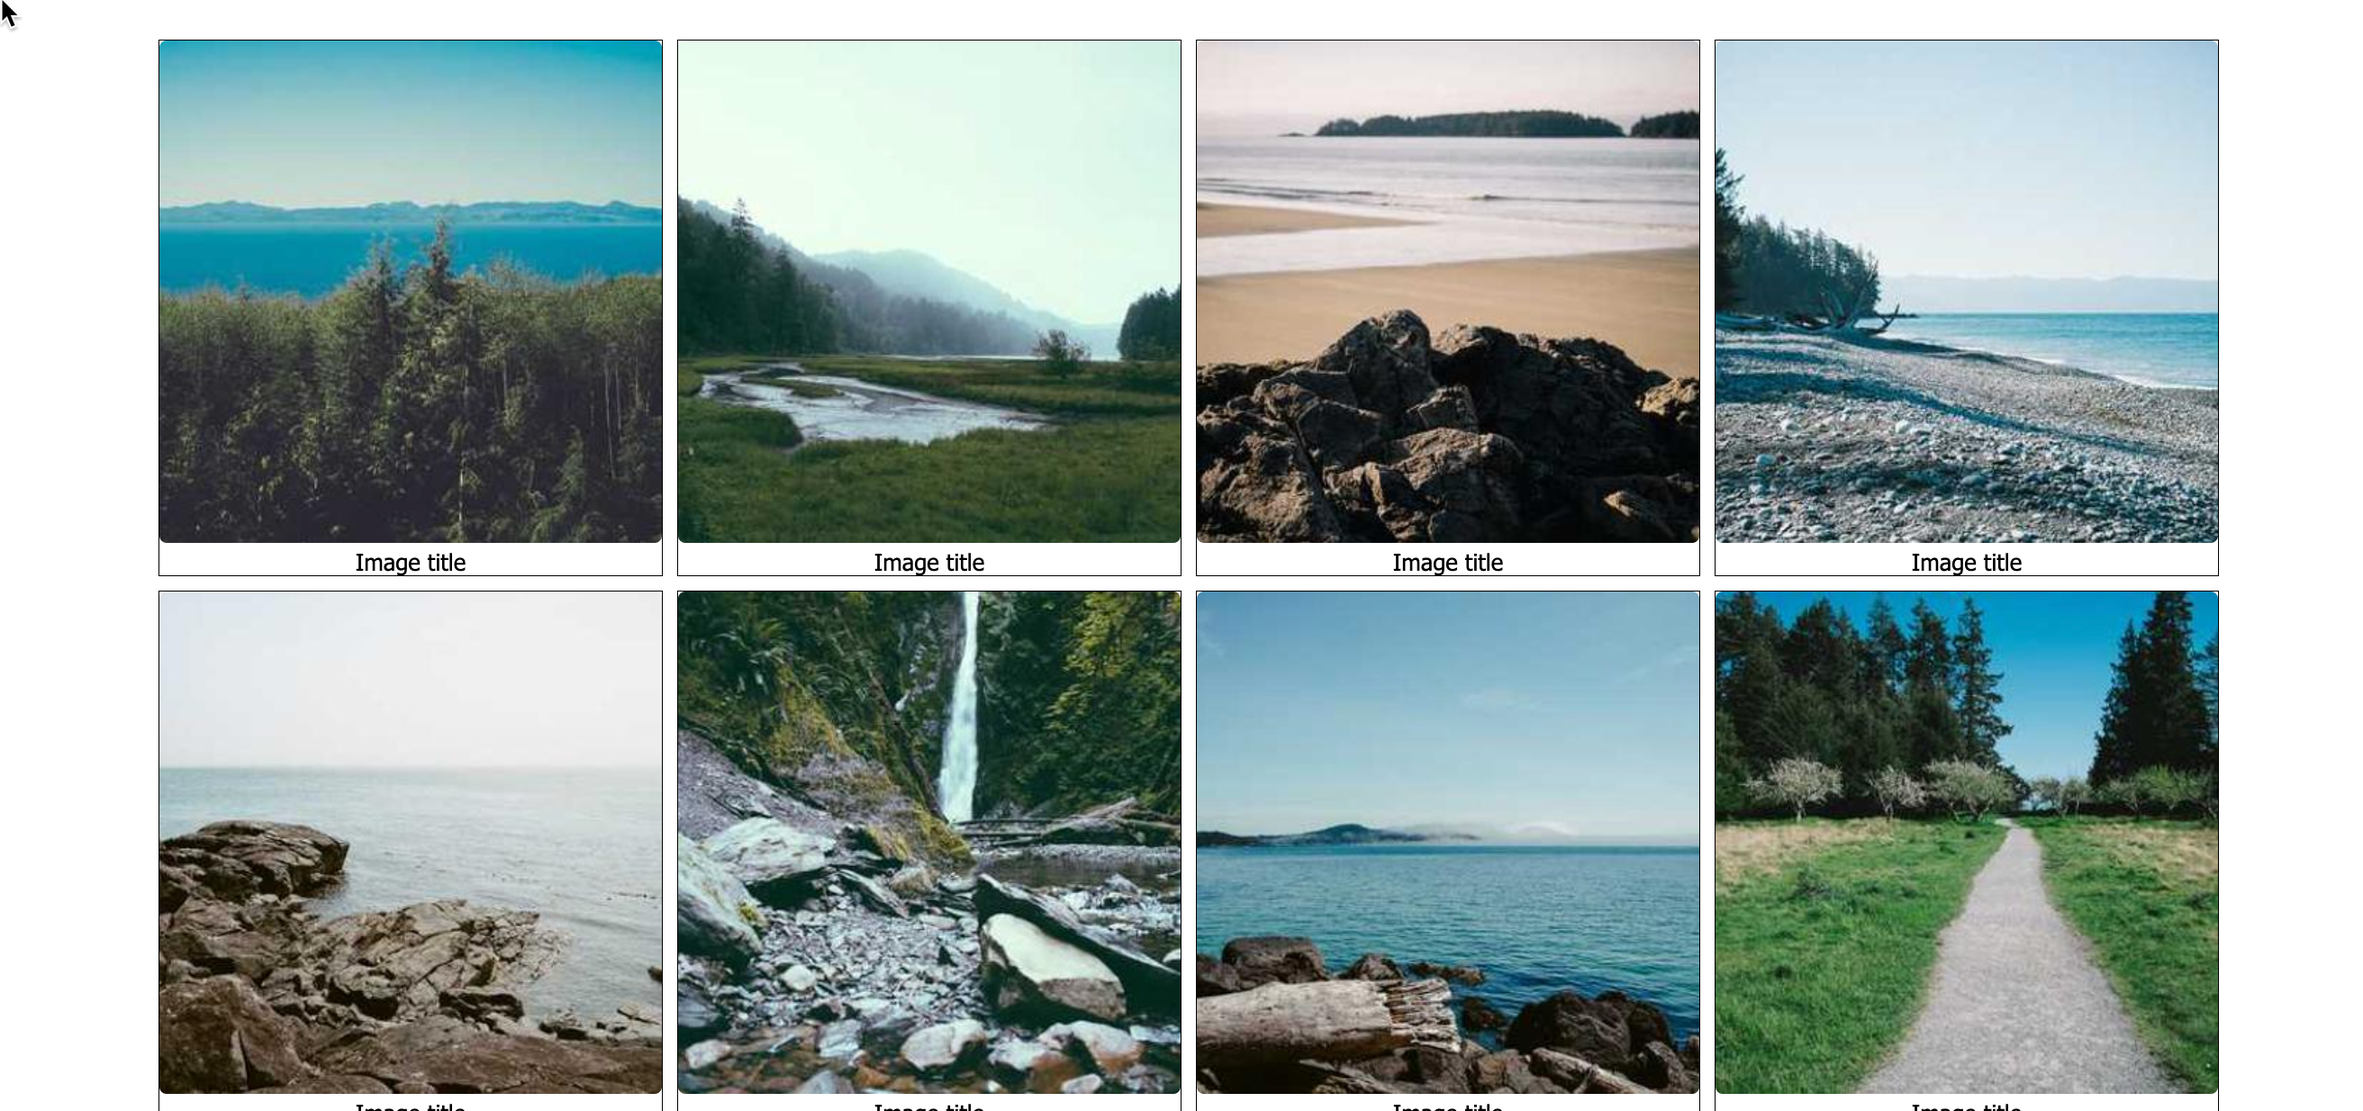
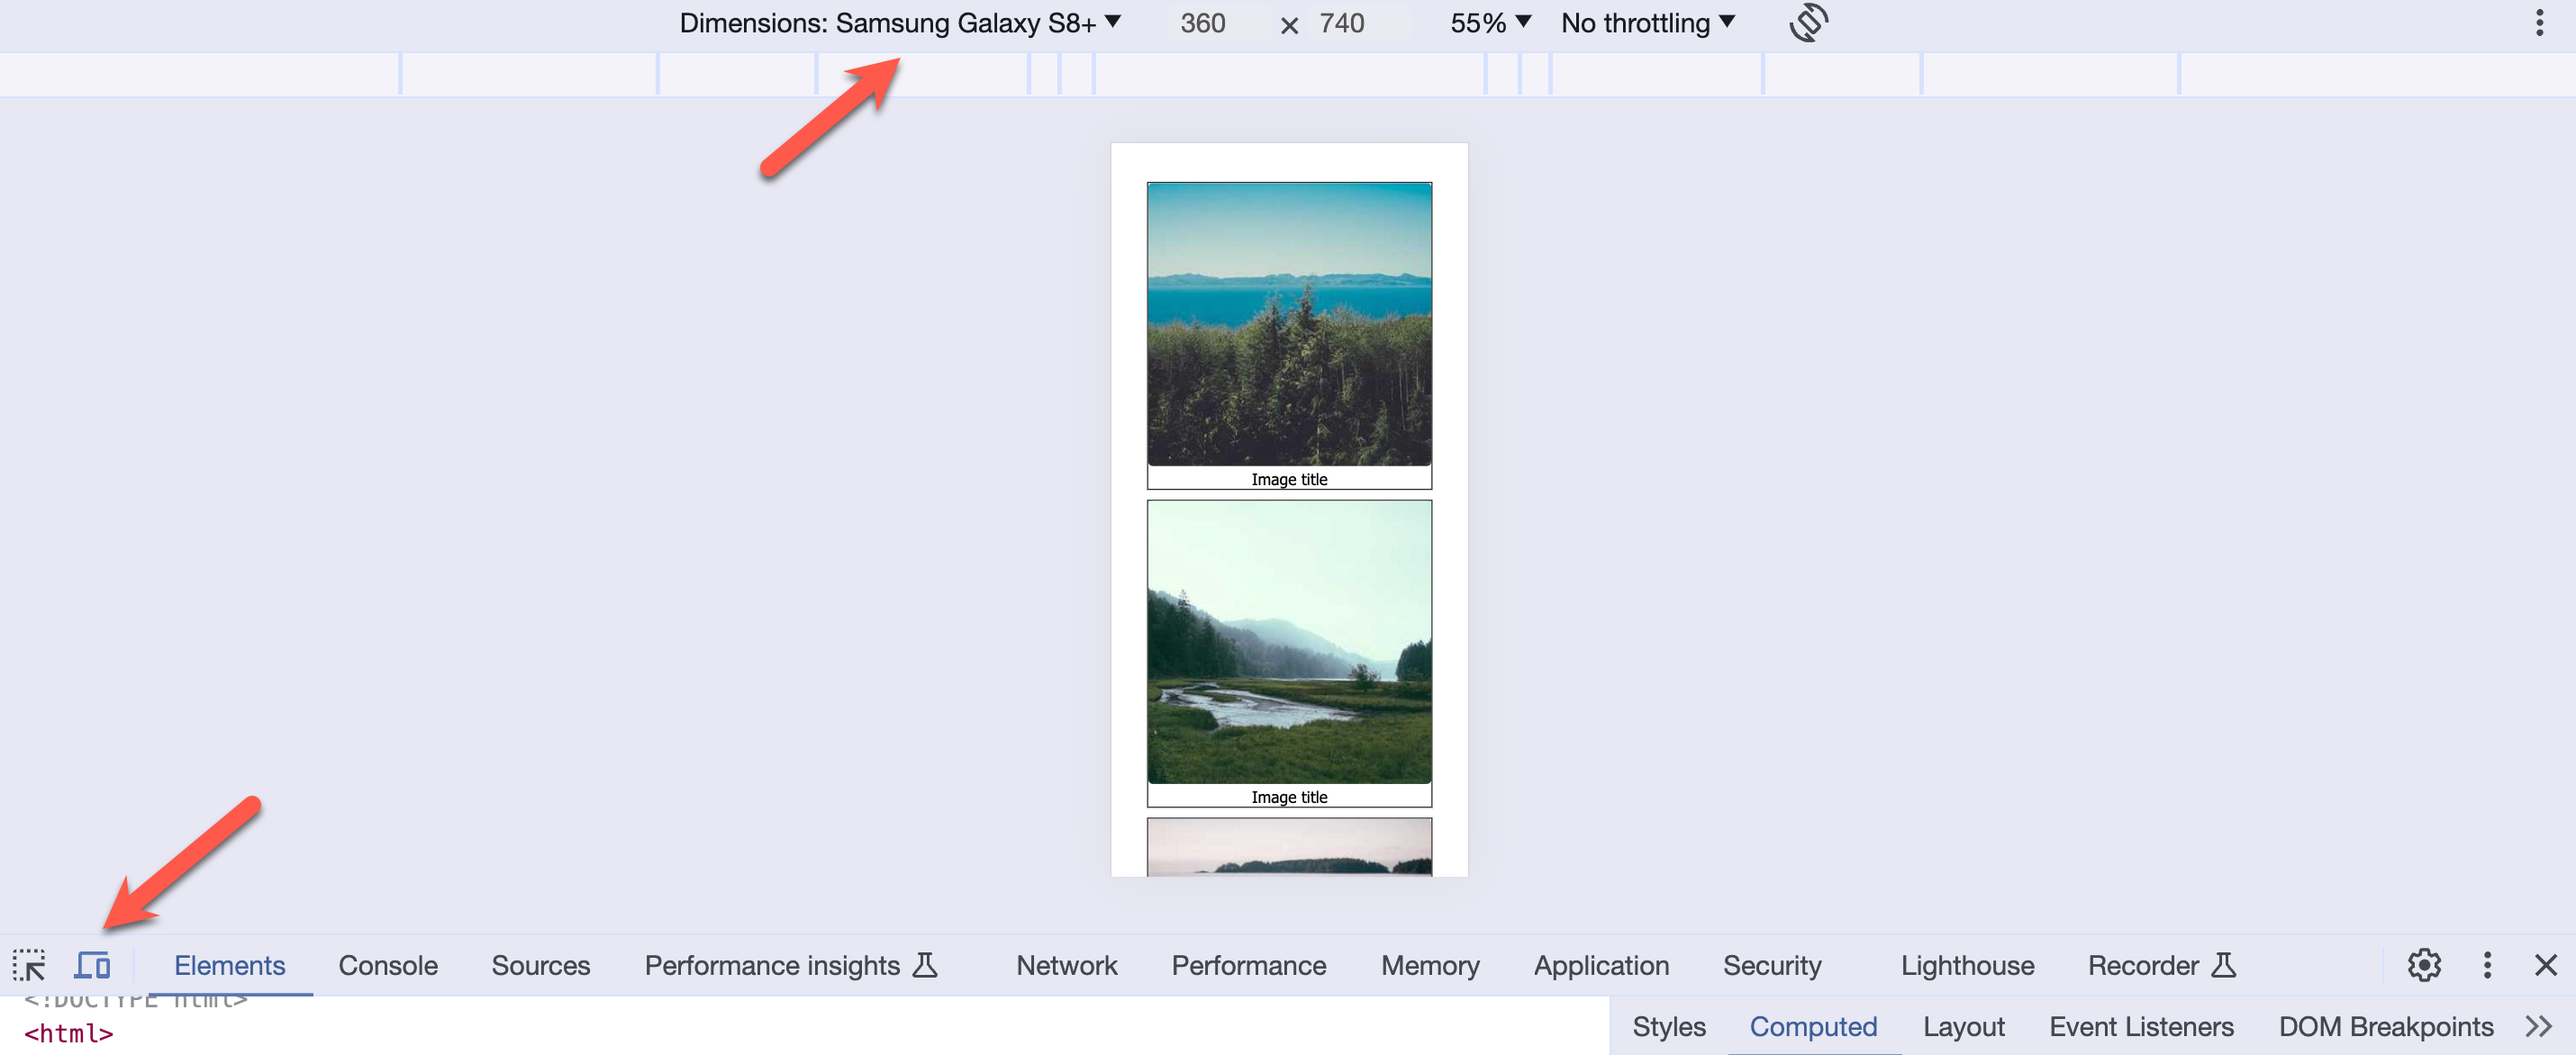
GITBOOK-43: No subject

diff --git a/week-2-css/notes-css.md b/week-2-css/notes-css.md
@@ -188,13 +188,33 @@ Another way to solve the problem above is to wrap the image elements in a block 
 
 ### CSS Solutions for Block and Inline Elements
 
-We can use CSS instead of HTML to solve the problem above with images.  Here is the HTML and CSS that uses the `display` property to make images behave as block elements.  Images are a little different than other inline elements in that you can set their height or width, but by using the display property you can guarantee they will render on separate lines.
+We can use CSS instead of HTML to solve the problem above with images.  Here is the HTML and CSS that uses the `display` property to make images behave as block elements.  Images are a little different than other inline elements in that you can set their height or width, but by using the display property, you can guarantee they will render on separate lines.
 
 ```
 <!-- dog and cat render on separate lines  -->
 <img style="display:block;" src="dog.jpg">
 <img style="display:block;" src="cat.jpg">
 ```
+
+Another use for `display` is to make anchor tags, which are inline, render horizontally as anchor tags normally would, but give them a height and width.  We know that height and width are usually only available for block element.  This is commonly see in a navigation bar.
+
+In the CSS below, we are setting the `nav a` to `display inline-block`. Note that we using specificity so that only the anchor elements under the nav element use this code.  Once the elements are set to `inline-block` we can apply height and width.  The rest of the properties can be applied to inline or block elements.  The result is shown below.
+
+```css
+nav a {
+    display: inline-block;
+    height: 20px;
+    width: 100px;
+    background-color: #000;
+    color: lightgrey;
+    font-family: sans-serif;
+    text-align: center;
+    text-decoration: none;
+    cursor: pointer;
+}
+```
+
+<figure><img src="../.gitbook/assets/image.png" alt=""><figcaption></figcaption></figure>
 
 ### HTML Tags are Categorized by Block and Inline
 

diff --git a/week-2-css/using-css-for-layout/notes-responsive-layout.md b/week-2-css/using-css-for-layout/notes-responsive-layout.md
@@ -16,11 +16,11 @@ The table below summarizes the width and height of different device screens.  Th
 
 When creating layouts, we must consider how they would appear on another device. On a laptop, we could show four images across, but on a mobile device, we could only show one image per row.
 
-<figure><img src="../../.gitbook/assets/image (1).png" alt=""><figcaption><p>Flex Box Row Wrap</p></figcaption></figure>
+<figure><img src="../../.gitbook/assets/image (1) (1).png" alt=""><figcaption><p>Flex Box Row Wrap</p></figcaption></figure>
 
 The Chrome browser has tools to help you see how a web page would look on different devices. To activate the Responsive layout, open the Inspector and then click on "Toggle Device Toolbar."
 
-<figure><img src="../../.gitbook/assets/image.png" alt=""><figcaption><p>How the Image Gallery Looks on a Mobile Device </p></figcaption></figure>
+<figure><img src="../../.gitbook/assets/image (1).png" alt=""><figcaption><p>How the Image Gallery Looks on a Mobile Device </p></figcaption></figure>
 
 ### Code for Row Wrap
 

diff --git a/week-1-html/notes-html.md b/week-1-html/notes-html.md
@@ -10,7 +10,7 @@ HTML is interpreted by browsers.  Not all browser are the same.  The chart below
 
 The HTML language is always evolving.  If you want to find out if the HTML you are using will work in the browsers that you are supporting, you can visit the [caniuse](https://caniuse.com/) page. In the picture below, caniuse is reporting that the HTML table tag element is supported in all of the browsers.
 
-<figure><img src="../.gitbook/assets/image (1) (1) (1).png" alt=""><figcaption></figcaption></figure>
+<figure><img src="../.gitbook/assets/image (1) (1) (1) (1).png" alt=""><figcaption></figcaption></figure>
 
 ### Containment
 

diff --git a/tools/notes-replit-+-github-integration.md b/tools/notes-replit-+-github-integration.md
@@ -32,7 +32,7 @@ Check the "Create initial commit with all changes" or you will be prompted later
 
 <div data-full-width="true">
 
-<figure><img src="../.gitbook/assets/image (1) (1) (1) (1) (1) (1).png" alt=""><figcaption><p>Enter Values for Remote, Repository Name, and Select Default Replit User or Authorize New User</p></figcaption></figure>
+<figure><img src="../.gitbook/assets/image (1) (1) (1) (1) (1) (1) (1).png" alt=""><figcaption><p>Enter Values for Remote, Repository Name, and Select Default Replit User or Authorize New User</p></figcaption></figure>
 
 </div>
 

diff --git a/week-1-html/project-subject-of-interest.md b/week-1-html/project-subject-of-interest.md
@@ -25,5 +25,5 @@ Use the tags below to render elements from your HTML code:
 
 Here's a picture of a pages created to fullfill these requirements.
 
-<figure><img src="../.gitbook/assets/image (1) (1) (1) (1).png" alt=""><figcaption><p>Subject of Interest</p></figcaption></figure>
+<figure><img src="../.gitbook/assets/image (1) (1) (1) (1) (1).png" alt=""><figcaption><p>Subject of Interest</p></figcaption></figure>
 

diff --git a/week-2-css/using-css-for-layout/README.md b/week-2-css/using-css-for-layout/README.md
@@ -16,7 +16,7 @@ Before we add CSS for these layouts, we'll look at two broad techniques for cont
 
 ### Layout for Image Gallery
 
-<figure><img src="../../.gitbook/assets/image (1) (1).png" alt=""><figcaption></figcaption></figure>
+<figure><img src="../../.gitbook/assets/image (1) (1) (1).png" alt=""><figcaption></figcaption></figure>
 
 ### Layout With No Styling
 
